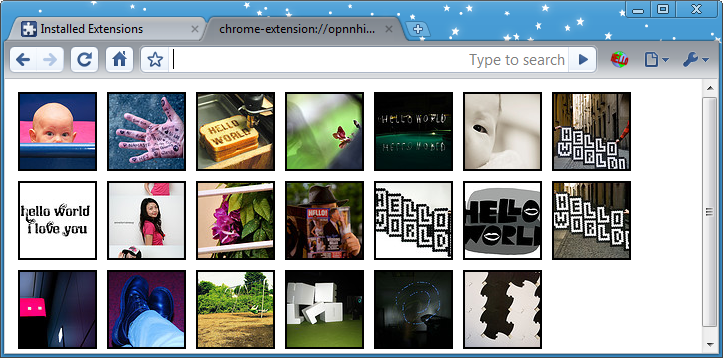
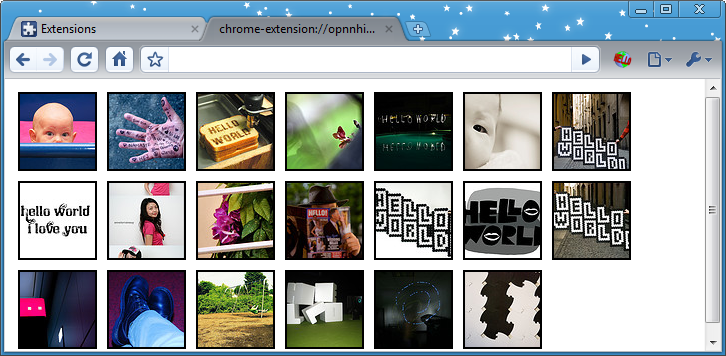
New screenshots for many of the tutorial images.
TEST=none
BUG=none
TBR=aa

Review URL: http://codereview.chromium.org/384148

git-svn-id: http://src.chromium.org/svn/trunk/src@32046 4ff67af0-8c30-449e-8e8b-ad334ec8d88c

diff --git a/chrome/common/extensions/docs/tut_debugging.html b/chrome/common/extensions/docs/tut_debugging.html
@@ -295,6 +295,10 @@ to interactively debug an extension.
 To follow this tutorial, you need
 the Hello World extension that was featured in
 <a href="getstarted.html">Getting Started</a>.
+In this section,
+you'll load the extension
+and take a look at its information
+in the Extensions page.
 </p>
 
 <ol>
@@ -321,7 +325,7 @@ the Hello World extension that was featured in
   </li>
 
   <li>
-  Go to the Installed Extensions page
+  Go to the Extensions page
   (<b>chrome://extensions</b>),
   and make sure the page is in Developer mode.
   </li>
@@ -338,7 +342,7 @@ the Hello World extension that was featured in
   </li>
 
   <li>
-  Keeping an eye on the Installed Extensions page,
+  Keeping an eye on the Extensions page,
   click the Hello World extension's icon
   <img src="examples/tutorials/getstarted/icon.png" width="19" height="19" alt="" style="margin:0">.
   A popup appears,
@@ -346,14 +350,14 @@ the Hello World extension that was featured in
   under a new "Inspect active views:" heading.
 
   <p>
-  <img src="images/debug-popup.png" width="" height="" alt="">
+  <img src="images/debug-popup.png" width="726" height="547" alt="">
 
   </p></li>
 </ol>
 
 <p>
 Normally, you can inspect a page
-by clicking its link in the Installed Extensions page.
+by clicking its link in the Extensions page.
 However, clicking the link for a popup just
 makes the popup disappear.
 (This happens because a popup goes away as soon as it loses the keyboard focus.)
@@ -375,7 +379,7 @@ This feature is especially handy for debugging popups.
 <ol>
   <li>
   Get the ID for the Hello World extension
-  from the Installed Extensions page.
+  from the Extensions page.
   Example: <b>opnnhifacfpohionnikhlecfgheooenk</b>
   </li>
 
@@ -393,11 +397,11 @@ This feature is especially handy for debugging popups.
   </p>
 
   <p>
-  <img src="images/debug-popup-tab.png" width="" height="" alt="">
+  <img src="images/debug-popup-tab.png" width="726" height="356" alt="">
   </p>
 
   </li><li>
-  Back in the Installed Extensions page,
+  Back in the Extensions page,
   press <b>F5</b> or click the browser's Reload button
   to update the Hello World extension's information.
   <span class="comment">[PENDING: this seems like it should be unnecessary --
@@ -420,7 +424,7 @@ This feature is especially handy for debugging popups.
   </li>
   <li>
   Click the console button
-  <img src="images/console-button.gif" style="border:1px black solid" width="18" height="14" alt="">
+  <img src="images/console-button.gif" style="border:1px black solid; margin:0" width="18" height="14" alt="">
   (second from left, at the bottom of the Developer Tools window)
   so that you can see both the code and the console.
   </li>
@@ -469,19 +473,19 @@ as it adds images to itself.
   This section shows the current values of all variables in the current scope.
   For example, in the following screenshot
   the value of <code>i</code> is 0, and
-  <code>photos</code> is a <code>NodeList</code>
-  that contains at least one <code>Element</code>.
+  <code>photos</code> is a node list
+  that contains at least a few elements.
   (In fact, it contains 20 elements at indexes 0 through 19,
   each one representing a photo.)
 
   <p>
-  <img src="images/devtools-localvars.png" alt="" width="226" height="123">
+  <img src="images/devtools-localvars.png" alt="" width="225" height="215">
   </p>
   </li>
 
   <li>
   Click the play/pause button
-  <img src="images/play-button.gif" style="border:1px black solid" width="14" height="12" alt="">
+  <img src="images/play-button.gif" style="border:1px black solid; margin:0" width="14" height="12" alt="">
   (near the top right of the Developer Tools window)
   to go through the image-processing loop a single time.
   Each time you click that button,
@@ -492,7 +496,7 @@ as it adds images to itself.
   </li>
 
   <p>
-  <img src="images/devtools-3.png" width="723" height="270" alt="the popup page with 10 images">
+  <img src="images/devtools-3.png" width="726" height="356" alt="the popup page with 10 images">
   </p>
 
   <li>
@@ -501,7 +505,7 @@ as it adds images to itself.
   To let the page finish loading,
   click line <b>37</b> to disable the breakpoint,
   and then press play/pause
-  <img src="images/play-button.gif" style="border:1px black solid" width="14" height="12" alt="">
+  <img src="images/play-button.gif" style="border:1px black solid; margin:0" width="14" height="12" alt="">
   to continue execution.
   </li>
 
@@ -518,7 +522,7 @@ to debug your extensions:
 <ul>
   <li>
     Find your extension's ID and links to its pages in
-    the <b>Installed Extensions</b> page
+    the <b>Extensions</b> page
     (<b>chrome://extensions</b>).
   </li>
   <li>

diff --git a/chrome/common/extensions/docs/static/tut_debugging.html b/chrome/common/extensions/docs/static/tut_debugging.html
@@ -14,6 +14,10 @@ to interactively debug an extension.
 To follow this tutorial, you need
 the Hello World extension that was featured in
 <a href="getstarted.html">Getting Started</a>.
+In this section,
+you'll load the extension
+and take a look at its information
+in the Extensions page.
 </p>
 
 <ol>
@@ -42,7 +46,7 @@ the Hello World extension that was featured in
   </li>
 
   <li>
-  Go to the Installed Extensions page
+  Go to the Extensions page
   (<b>chrome://extensions</b>),
   and make sure the page is in Developer mode.
   </li>
@@ -59,7 +63,7 @@ the Hello World extension that was featured in
   </li>
 
   <li>
-  Keeping an eye on the Installed Extensions page,
+  Keeping an eye on the Extensions page,
   click the Hello World extension's icon
   <img src="examples/tutorials/getstarted/icon.png"
        width="19" height="19" alt=""
@@ -70,14 +74,14 @@ the Hello World extension that was featured in
 
   <p>
   <img src="images/debug-popup.png"
-       width="" height="" alt="" />
+       width="726" height="547" alt="" />
 
   </li>
 </ol>
 
 <p>
 Normally, you can inspect a page
-by clicking its link in the Installed Extensions page.
+by clicking its link in the Extensions page.
 However, clicking the link for a popup just
 makes the popup disappear.
 (This happens because a popup goes away as soon as it loses the keyboard focus.)
@@ -99,7 +103,7 @@ This feature is especially handy for debugging popups.
 <ol>
   <li>
   Get the ID for the Hello World extension
-  from the Installed Extensions page.
+  from the Extensions page.
   Example: <b>opnnhifacfpohionnikhlecfgheooenk</b>
   </li>
 
@@ -118,11 +122,11 @@ This feature is especially handy for debugging popups.
 
   <p>
   <img src="images/debug-popup-tab.png"
-       width="" height="" alt="" />
+       width="726" height="356" alt="" />
   </p>
 
   <li>
-  Back in the Installed Extensions page,
+  Back in the Extensions page,
   press <b>F5</b> or click the browser's Reload button
   to update the Hello World extension's information.
   <span class="comment">[PENDING: this seems like it should be unnecessary --
@@ -147,9 +151,8 @@ This feature is especially handy for debugging popups.
   <li>
   Click the console button
   <img src="images/console-button.gif"
-       style="border:1px black solid"
-       width="18" height="14" alt=""
-       style="margin:0" />
+       style="border:1px black solid; margin:0"
+       width="18" height="14" alt="" />
   (second from left, at the bottom of the Developer Tools window)
   so that you can see both the code and the console.
   </li>
@@ -200,21 +203,21 @@ as it adds images to itself.
   This section shows the current values of all variables in the current scope.
   For example, in the following screenshot
   the value of <code>i</code> is 0, and
-  <code>photos</code> is a <code>NodeList</code>
-  that contains at least one <code>Element</code>.
+  <code>photos</code> is a node list
+  that contains at least a few elements.
   (In fact, it contains 20 elements at indexes 0 through 19,
   each one representing a photo.)
 
   <p>
   <img src="images/devtools-localvars.png" alt=""
-       width="226" height="123" />
+       width="225" height="215" />
   </p>
   </li>
 
   <li>
   Click the play/pause button
   <img src="images/play-button.gif"
-       style="border:1px black solid"
+       style="border:1px black solid; margin:0"
        width="14" height="12" alt="" />
   (near the top right of the Developer Tools window)
   to go through the image-processing loop a single time.
@@ -227,7 +230,7 @@ as it adds images to itself.
 
   <p>
   <img src="images/devtools-3.png"
-       width="723" height="270"
+       width="726" height="356"
        alt="the popup page with 10 images" />
   </p>
 
@@ -238,7 +241,7 @@ as it adds images to itself.
   click line <b>37</b> to disable the breakpoint,
   and then press play/pause
   <img src="images/play-button.gif"
-       style="border:1px black solid"
+       style="border:1px black solid; margin:0"
        width="14" height="12" alt="" />
   to continue execution.
   </li>
@@ -256,7 +259,7 @@ to debug your extensions:
 <ul>
   <li>
     Find your extension's ID and links to its pages in
-    the <b>Installed Extensions</b> page
+    the <b>Extensions</b> page
     (<b>chrome://extensions</b>).
   </li>
   <li>

diff --git a/chrome/common/extensions/docs/getstarted.html b/chrome/common/extensions/docs/getstarted.html
@@ -282,7 +282,7 @@ that, when clicked, displays an automatically generated page.
 The icon and page will look something like this:
 </p>
 
-<img src="images/hello-world-small.png" width="300" height="243" alt="a window with a grid of images related to HELLO WORLD">
+<img src="images/hello-world-small.png" width="300" height="221" alt="a window with a grid of images related to HELLO WORLD">
 
 
 <h2 id="browser">Get your browser ready</h2>
@@ -377,7 +377,7 @@ as the following screenshot shows.
 </p>
 
 <p>
-<a href="images/load_after.png"><img src="images/load_after_small.png" width="300" height="194"></a>
+<a href="images/load_after.png"><img src="images/load_after_small.png" width="300" height="132"></a>
 </p>
 
 <h2 id="code">Add code to the extension</h2>
@@ -408,7 +408,7 @@ as the following screenshot shows.
 </ol>
 <p> It should look something like this:</p>
 
-<img src="images/hello-world.png" width="500" height="405" alt="a popup with a grid of images related to HELLO WORLD">
+<img src="images/hello-world.png" width="500" height="369" alt="a popup with a grid of images related to HELLO WORLD">
 
 <p> If you don't see the popup,
 try the instructions again,

diff --git a/chrome/common/extensions/docs/static/getstarted.html b/chrome/common/extensions/docs/static/getstarted.html
@@ -9,7 +9,7 @@ The icon and page will look something like this:
 </p>
 
 <img src="images/hello-world-small.png"
-  width="300" height="243"
+  width="300" height="221"
   alt="a window with a grid of images related to HELLO WORLD" />
 
 
@@ -112,7 +112,7 @@ as the following screenshot shows.
 <p>
 <a href="images/load_after.png"><img
   src="images/load_after_small.png"
-  width="300" height="194" /></a>
+  width="300" height="132" /></a>
 </p>
 
 <h2 id="code">Add code to the extension</h2>
@@ -146,7 +146,7 @@ as the following screenshot shows.
 <p> It should look something like this:</p>
 
 <img src="images/hello-world.png"
-  width="500" height="405"
+  width="500" height="369"
   alt="a popup with a grid of images related to HELLO WORLD" />
 
 <p> If you don't see the popup,
